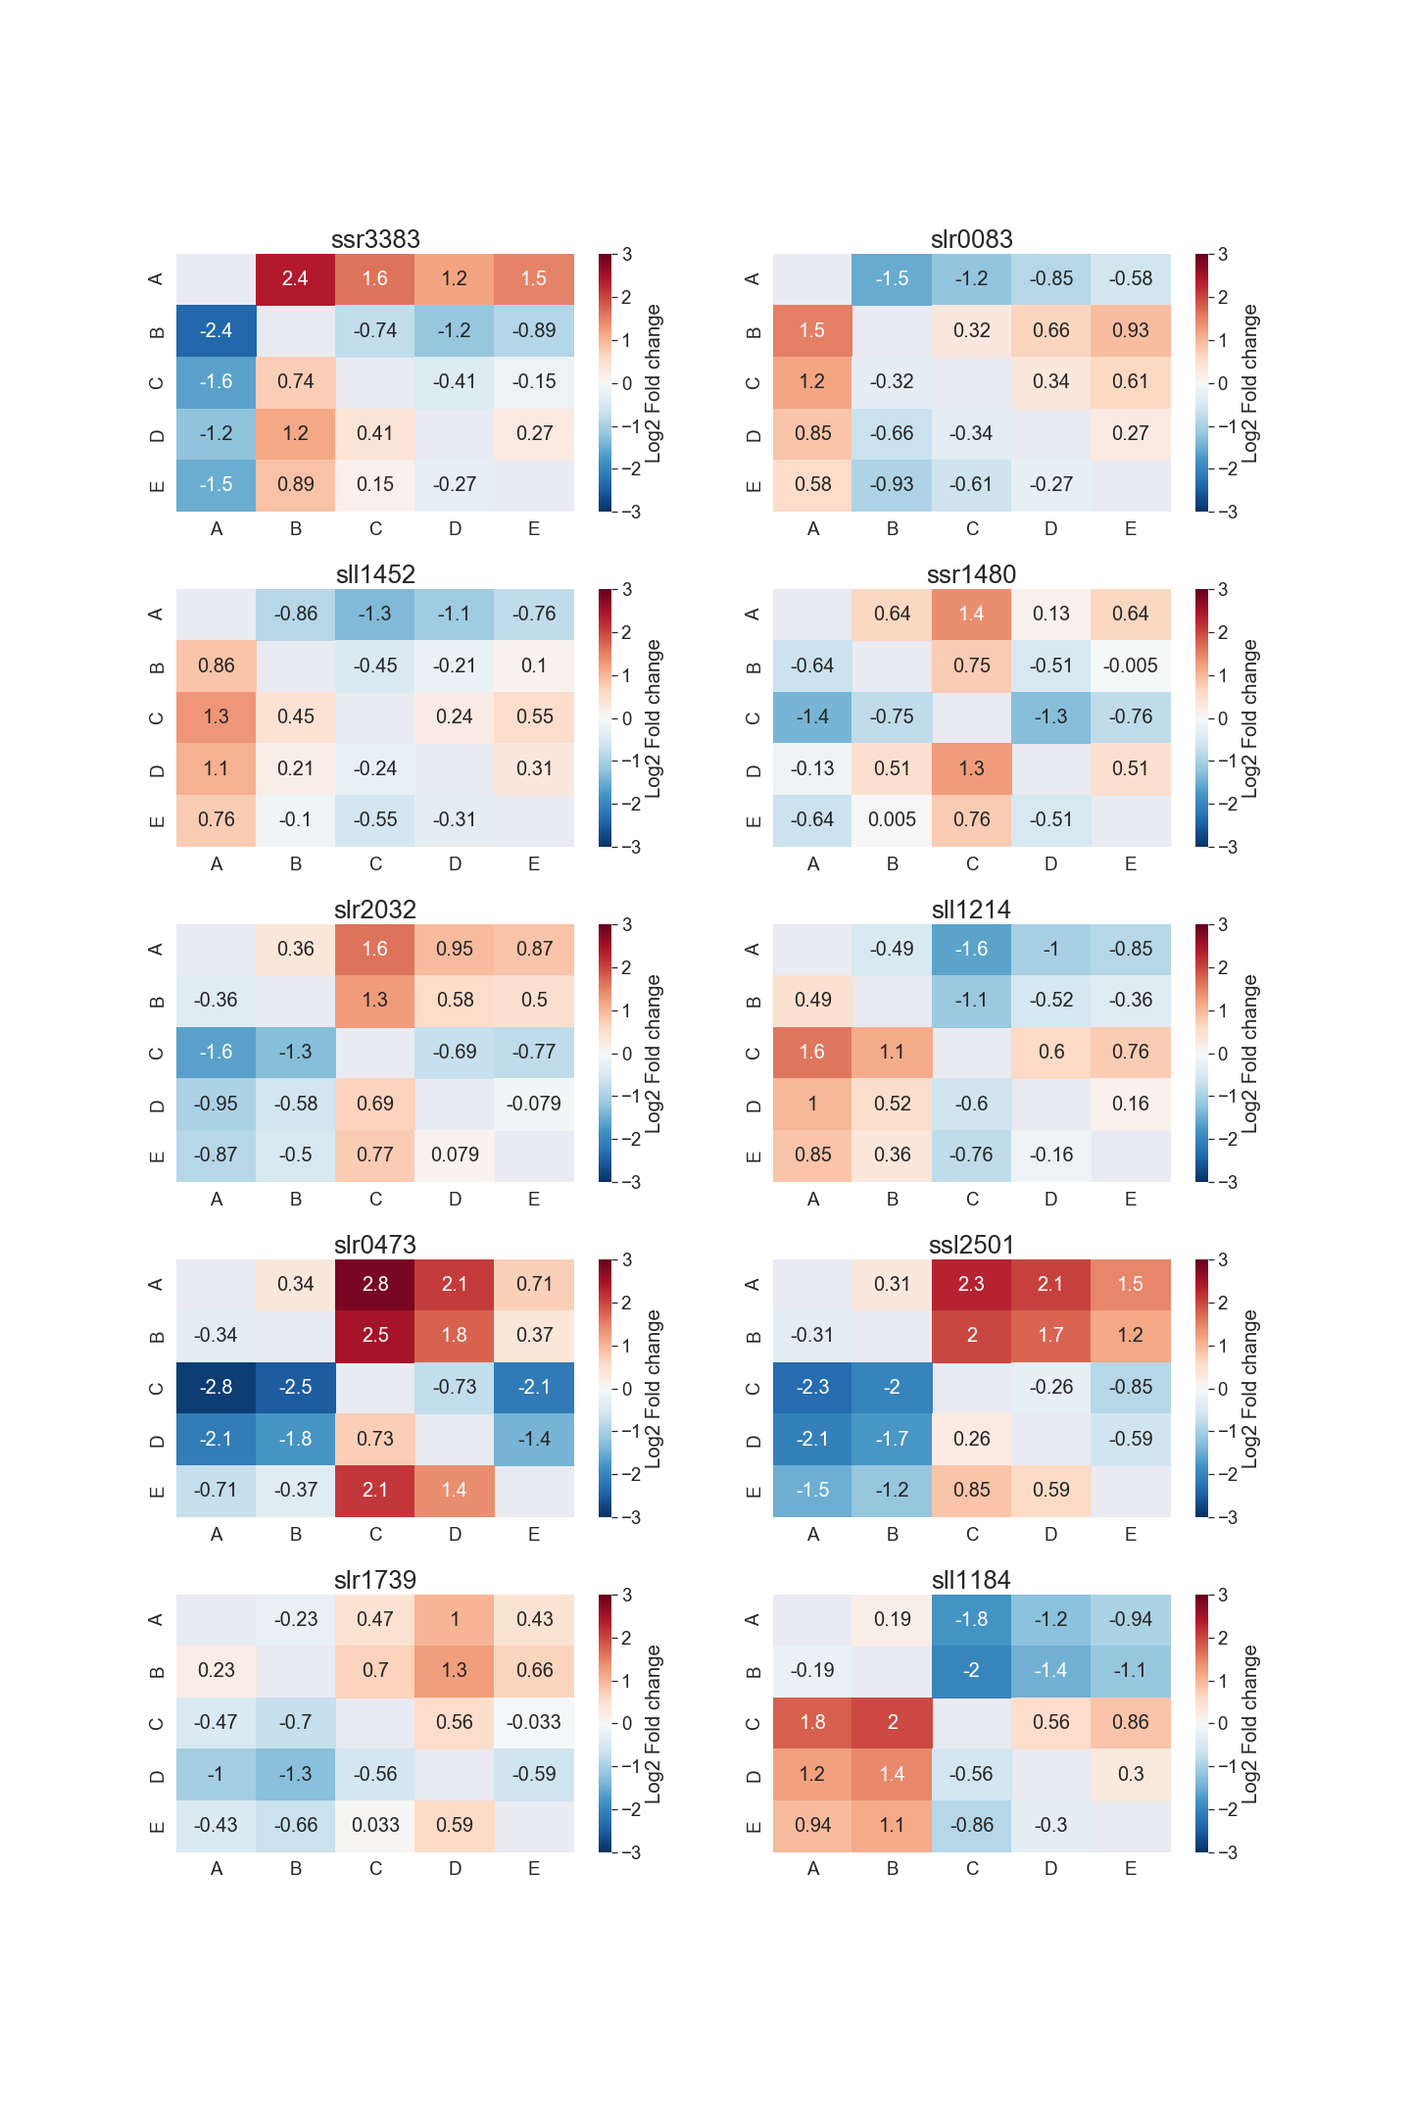
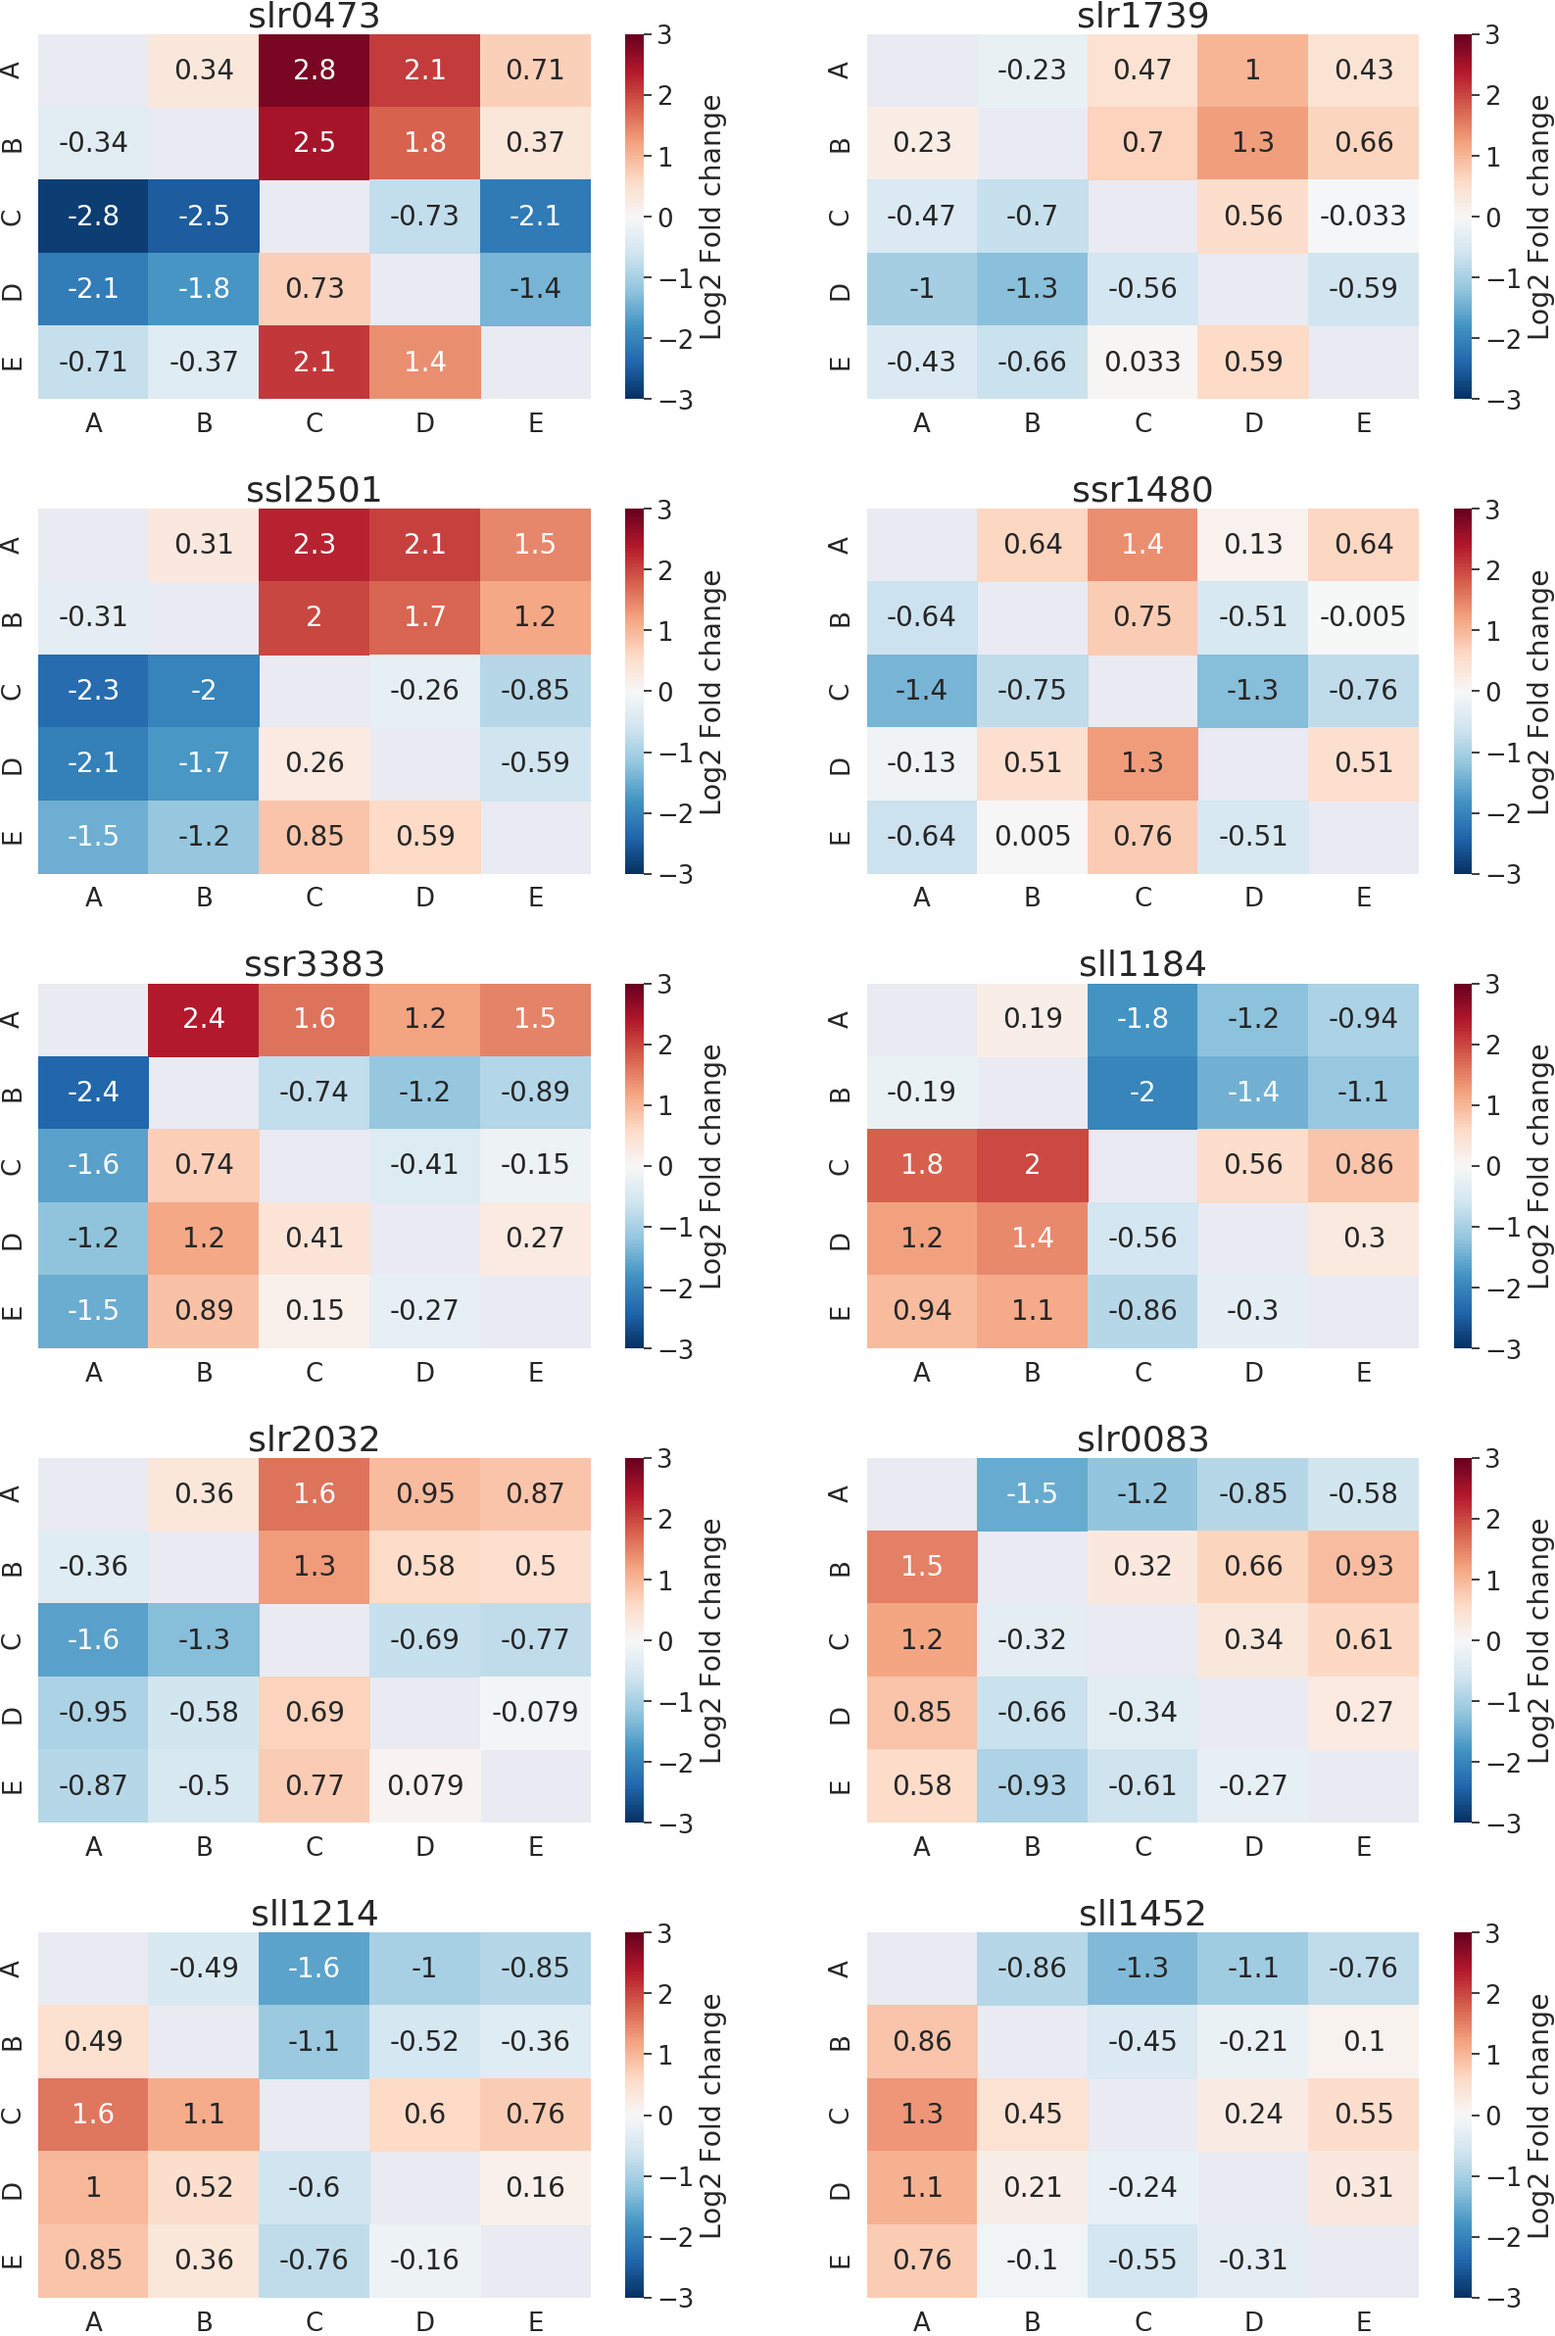
Improved image size

diff --git a/doc/thesis/results/stats_triqler.py b/doc/thesis/results/stats_triqler.py
@@ -67,7 +67,7 @@ def generate_heatmap(file, proteins):
                 data[protein][comb] = fold_change
 
     nrows = int(len(proteins)/2)
-    fig, ax = plt.subplots(nrows=nrows, ncols=2) #,figsize=(20,30))
+    fig, ax = plt.subplots(nrows=nrows, ncols=2, figsize=(20,30))
     fig.subplots_adjust(hspace=0.3)
     groups = list(data.values())[0].keys()
     for num_prot, protein in enumerate(data.keys()):
@@ -101,7 +101,7 @@ def generate_heatmap(file, proteins):
                     annot_kws={"size": 20})
         plt.title(protein, fontsize=26)
         print(f"{num_prot} out of {len(proteins)} done", end='\r')
-    plt.savefig('combined.png')
+    plt.savefig('combined.png', bbox_inches='tight',pad_inches=0)
     plt.close()
 
 def change_label(text):
@@ -123,5 +123,5 @@ def generate_heatmap_layout(keys):
     return matrix, comb_matrix, xlabel, ylabel
 
 if __name__ == "__main__":
-    directory = "data/FA_QP/*"
+    directory = "data/cyano_QP/*"
     main(directory)
